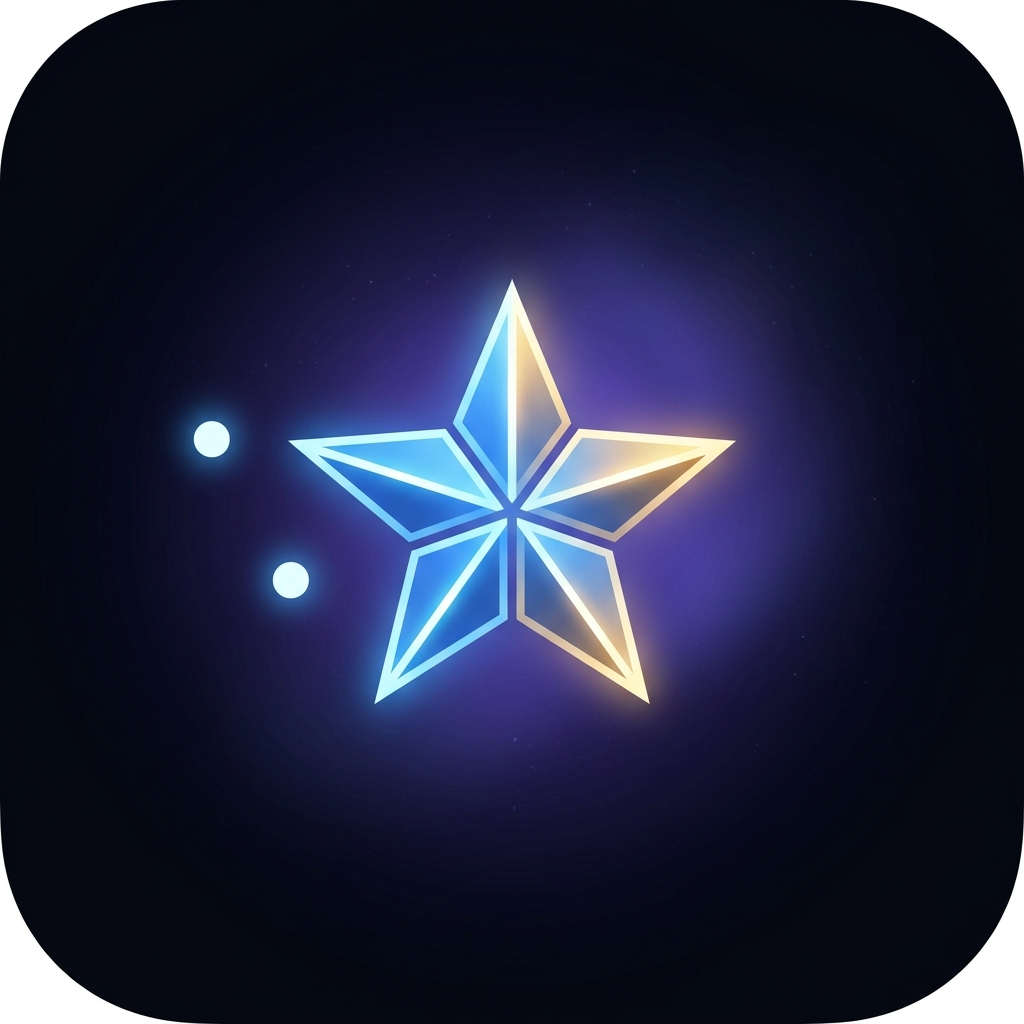
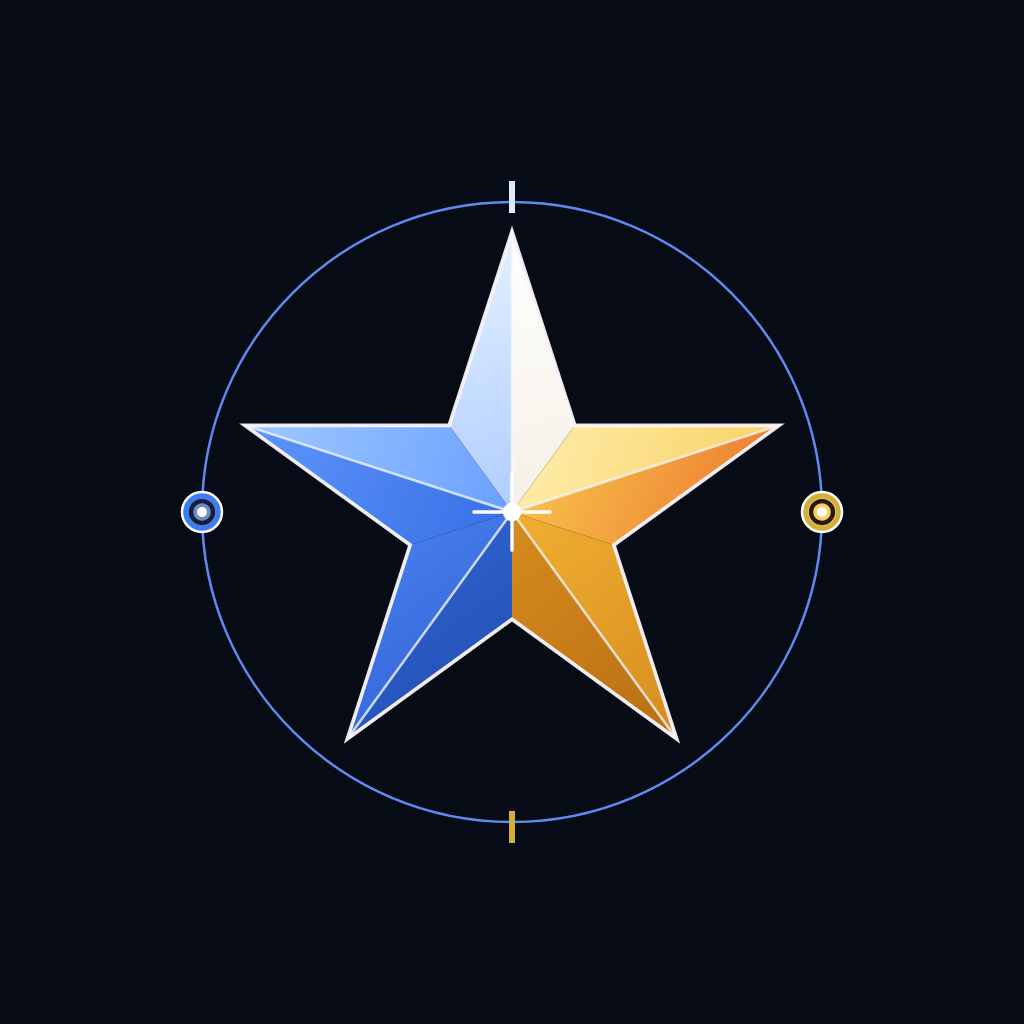
Updated the theme to match the updates to the game.

diff --git a/games/dot-dot-star.html b/games/dot-dot-star.html
@@ -6,7 +6,11 @@
   <title>Dot Dot Star - Rare Rooster</title>
   <meta name="description" content="Dot Dot Star is a deep-space astrological logic puzzle game by Rare Rooster, inspired by Queens puzzle logic with procedural infinite galaxies.">
   <link rel="stylesheet" href="../assets/css/dot-dot-star.css">
-  <link rel="icon" type="image/png" href="../assets/images/logo.png">
+  <link rel="icon" type="image/svg+xml" href="../assets/images/dot-dot-star-icon.svg">
+  <link rel="alternate icon" type="image/png" href="../assets/images/dot-dot-star-icon.png">
+  <meta property="og:title" content="Dot Dot Star - Rare Rooster">
+  <meta property="og:description" content="A deep-space astrological logic puzzle inspired by the classic Queens constraint problem. Deduce and ignite stars across infinite procedural galaxies.">
+  <meta property="og:image" content="../assets/images/dot-dot-star-icon.png">
 </head>
 <body class="theme-void-pulse">
   <header>
@@ -24,7 +28,7 @@
     <!-- Hero Section -->
     <section class="dds-hero">
       <div class="dds-icon-wrapper">
-        <img src="../assets/images/dot-dot-star-icon.png" alt="Dot Dot Star App Icon" class="dds-app-icon">
+        <img src="../assets/images/dot-dot-star-icon.svg" alt="Dot Dot Star Logo" class="dds-app-icon">
       </div>
 
       <div class="dds-wordmark">
@@ -43,7 +47,7 @@
       <p class="dds-tagline"><em>&ldquo;Stars don&rsquo;t announce themselves. They simply appear.&rdquo;</em></p>
 
       <p class="dds-description">
-        A deep-space astrological logic puzzle inspired by the classic &ldquo;Queens&rdquo; constraint problem. 
+        A deep-space astrological logic puzzle inspired by the classic &ldquo;Queens&rdquo; constraint problem.
         Every galaxy is procedurally generated to guarantee a singular, elegant solution.
       </p>
 
@@ -91,28 +95,28 @@
         <!-- 4x4 Solved Board Sample -->
         <div class="dds-grid-4x4">
           <!-- Row 0: regions [0,0,0,1] -> Navy, Navy, Navy, Violet -->
-          <div class="dds-cell r-navy"><div class="dds-cell-icon"><img src="../assets/images/dot.svg" alt="Dot"></div></div>
-          <div class="dds-cell r-navy"><div class="dds-cell-icon"><img src="../assets/images/star.svg" alt="Star"></div></div>
-          <div class="dds-cell r-navy"><div class="dds-cell-icon"><img src="../assets/images/dot.svg" alt="Dot"></div></div>
-          <div class="dds-cell r-violet"><div class="dds-cell-icon"><img src="../assets/images/dot.svg" alt="Dot"></div></div>
+          <div class="dds-cell r-navy"><div class="dds-cell-icon dds-cell-dot"><img src="../assets/images/dot.svg" alt="Dot"></div></div>
+          <div class="dds-cell r-navy"><div class="dds-cell-icon dds-cell-star"><img src="../assets/images/star.svg" alt="Star"></div></div>
+          <div class="dds-cell r-navy"><div class="dds-cell-icon dds-cell-dot"><img src="../assets/images/dot.svg" alt="Dot"></div></div>
+          <div class="dds-cell r-violet"><div class="dds-cell-icon dds-cell-dot"><img src="../assets/images/dot.svg" alt="Dot"></div></div>
 
           <!-- Row 1: regions [2,0,1,1] -> Teal, Navy, Violet, Violet -->
-          <div class="dds-cell r-teal"><div class="dds-cell-icon"><img src="../assets/images/dot.svg" alt="Dot"></div></div>
-          <div class="dds-cell r-navy"><div class="dds-cell-icon"><img src="../assets/images/dot.svg" alt="Dot"></div></div>
-          <div class="dds-cell r-violet"><div class="dds-cell-icon"><img src="../assets/images/dot.svg" alt="Dot"></div></div>
-          <div class="dds-cell r-violet"><div class="dds-cell-icon"><img src="../assets/images/star.svg" alt="Star"></div></div>
+          <div class="dds-cell r-teal"><div class="dds-cell-icon dds-cell-dot"><img src="../assets/images/dot.svg" alt="Dot"></div></div>
+          <div class="dds-cell r-navy"><div class="dds-cell-icon dds-cell-dot"><img src="../assets/images/dot.svg" alt="Dot"></div></div>
+          <div class="dds-cell r-violet"><div class="dds-cell-icon dds-cell-dot"><img src="../assets/images/dot.svg" alt="Dot"></div></div>
+          <div class="dds-cell r-violet"><div class="dds-cell-icon dds-cell-star"><img src="../assets/images/star.svg" alt="Star"></div></div>
 
           <!-- Row 2: regions [2,3,3,1] -> Teal, Crimson, Crimson, Violet -->
-          <div class="dds-cell r-teal"><div class="dds-cell-icon"><img src="../assets/images/star.svg" alt="Star"></div></div>
-          <div class="dds-cell r-crimson"><div class="dds-cell-icon"><img src="../assets/images/dot.svg" alt="Dot"></div></div>
-          <div class="dds-cell r-crimson"><div class="dds-cell-icon"><img src="../assets/images/dot.svg" alt="Dot"></div></div>
-          <div class="dds-cell r-violet"><div class="dds-cell-icon"><img src="../assets/images/dot.svg" alt="Dot"></div></div>
+          <div class="dds-cell r-teal"><div class="dds-cell-icon dds-cell-star"><img src="../assets/images/star.svg" alt="Star"></div></div>
+          <div class="dds-cell r-crimson"><div class="dds-cell-icon dds-cell-dot"><img src="../assets/images/dot.svg" alt="Dot"></div></div>
+          <div class="dds-cell r-crimson"><div class="dds-cell-icon dds-cell-dot"><img src="../assets/images/dot.svg" alt="Dot"></div></div>
+          <div class="dds-cell r-violet"><div class="dds-cell-icon dds-cell-dot"><img src="../assets/images/dot.svg" alt="Dot"></div></div>
 
           <!-- Row 3: regions [2,2,3,3] -> Teal, Teal, Crimson, Crimson -->
-          <div class="dds-cell r-teal"><div class="dds-cell-icon"><img src="../assets/images/dot.svg" alt="Dot"></div></div>
-          <div class="dds-cell r-teal"><div class="dds-cell-icon"><img src="../assets/images/dot.svg" alt="Dot"></div></div>
-          <div class="dds-cell r-crimson"><div class="dds-cell-icon"><img src="../assets/images/star.svg" alt="Star"></div></div>
-          <div class="dds-cell r-crimson"><div class="dds-cell-icon"><img src="../assets/images/dot.svg" alt="Dot"></div></div>
+          <div class="dds-cell r-teal"><div class="dds-cell-icon dds-cell-dot"><img src="../assets/images/dot.svg" alt="Dot"></div></div>
+          <div class="dds-cell r-teal"><div class="dds-cell-icon dds-cell-dot"><img src="../assets/images/dot.svg" alt="Dot"></div></div>
+          <div class="dds-cell r-crimson"><div class="dds-cell-icon dds-cell-star"><img src="../assets/images/star.svg" alt="Star"></div></div>
+          <div class="dds-cell r-crimson"><div class="dds-cell-icon dds-cell-dot"><img src="../assets/images/dot.svg" alt="Dot"></div></div>
         </div>
 
         <div class="dds-board-rules">

diff --git a/assets/css/dot-dot-star.css b/assets/css/dot-dot-star.css
@@ -29,11 +29,10 @@
 body.theme-void-pulse {
   font-family: 'Inter', -apple-system, BlinkMacSystemFont, 'Segoe UI', Roboto, sans-serif;
   background-color: var(--dds-bg-void);
-  background-image: 
-    radial-gradient(circle at 15% 15%, rgba(108, 159, 255, 0.08) 0%, transparent 40%),
-    radial-gradient(circle at 85% 20%, rgba(167, 139, 250, 0.07) 0%, transparent 45%),
-    radial-gradient(circle at 50% 65%, rgba(62, 207, 178, 0.04) 0%, transparent 50%),
-    radial-gradient(circle at 20% 90%, rgba(108, 159, 255, 0.06) 0%, transparent 40%);
+  background-image: url('../images/starfield.png');
+  background-position: center top;
+  background-repeat: no-repeat;
+  background-size: cover;
   background-attachment: fixed;
   color: var(--dds-on-bg);
   line-height: 1.6;
@@ -139,27 +138,28 @@ body.theme-void-pulse {
   z-index: 1;
 }
 
-/* Icon showcase */
+/* Icon & Logo showcase */
 .dds-icon-wrapper {
-  margin: 0 auto 2rem;
-  width: 120px;
-  height: 120px;
+  margin: 0 auto 1rem;
+  width: 300px;
+  height: 300px;
   position: relative;
+  display: flex;
+  align-items: center;
+  justify-content: center;
 }
 
 .dds-app-icon {
   width: 100%;
   height: 100%;
-  border-radius: 26px;
-  object-fit: cover;
-  box-shadow: 0 10px 30px rgba(0, 0, 0, 0.7), 0 0 35px var(--dds-glow-stellar);
-  border: 1px solid rgba(108, 159, 255, 0.4);
-  transition: transform 0.3s ease, box-shadow 0.3s ease;
+  object-fit: contain;
+  filter: drop-shadow(0 0 25px rgba(108, 159, 255, 0.45)) drop-shadow(0 8px 24px rgba(0, 0, 0, 0.6));
+  transition: transform 0.35s cubic-bezier(0.16, 1, 0.3, 1), filter 0.35s ease;
 }
 
 .dds-app-icon:hover {
-  transform: scale(1.04) translateY(-3px);
-  box-shadow: 0 16px 40px rgba(0, 0, 0, 0.8), 0 0 50px rgba(108, 159, 255, 0.45);
+  transform: scale(1.06) translateY(-2px);
+  filter: drop-shadow(0 0 40px rgba(108, 159, 255, 0.75)) drop-shadow(0 0 15px rgba(255, 209, 102, 0.4)) drop-shadow(0 12px 30px rgba(0, 0, 0, 0.8));
 }
 
 /* Wordmark */
@@ -171,6 +171,7 @@ body.theme-void-pulse {
   column-gap: 0.35rem;
   row-gap: 0.1rem;
   margin-bottom: 0.75rem;
+  margin-top: -3rem;
 }
 
 .dds-wordmark .word-dot {
@@ -424,12 +425,10 @@ body.theme-void-pulse {
   justify-content: center;
 }
 
-.dds-cell-icon img,
-.dds-cell-icon svg {
-  width: 100%;
-  height: 100%;
-  object-fit: contain;
-}
+ .dds-cell-dot {
+     width: 10px;
+     height: 10px;
+ }
 
 .dds-board-rules {
   display: flex;
@@ -692,32 +691,38 @@ body.theme-void-pulse {
     flex-direction: column;
     gap: 1rem;
   }
-  
+
   .theme-void-pulse nav {
     gap: 1.25rem;
   }
-  
+
+  .dds-icon-wrapper {
+    width: 135px;
+    height: 135px;
+    margin-bottom: 1.25rem;
+  }
+
   .dds-wordmark .word-dot {
     font-size: 1.6rem;
   }
-  
+
   .dds-wordmark .word-sep {
     font-size: 1.6rem;
   }
-  
+
   .dds-wordmark .word-star {
     font-size: 2.5rem;
   }
-  
+
   .dds-wordmark .word-bang {
     font-size: 2.5rem;
   }
-  
+
   .dds-grid-4x4 {
     grid-template-columns: repeat(4, 52px);
     grid-template-rows: repeat(4, 52px);
   }
-  
+
   .dds-privacy-container {
     padding: 2rem 1.5rem;
   }

diff --git a/privacy/dot-dot-star.html b/privacy/dot-dot-star.html
@@ -6,7 +6,8 @@
   <title>Dot Dot Star - Privacy Policy</title>
   <meta name="description" content="Privacy Policy for Dot Dot Star by Rare Rooster">
   <link rel="stylesheet" href="../assets/css/dot-dot-star.css">
-  <link rel="icon" type="image/png" href="../assets/images/logo.png">
+  <link rel="icon" type="image/svg+xml" href="../assets/images/dot-dot-star-icon.svg">
+  <link rel="alternate icon" type="image/png" href="../assets/images/dot-dot-star-icon.png">
 </head>
 <body class="theme-void-pulse">
   <header>
